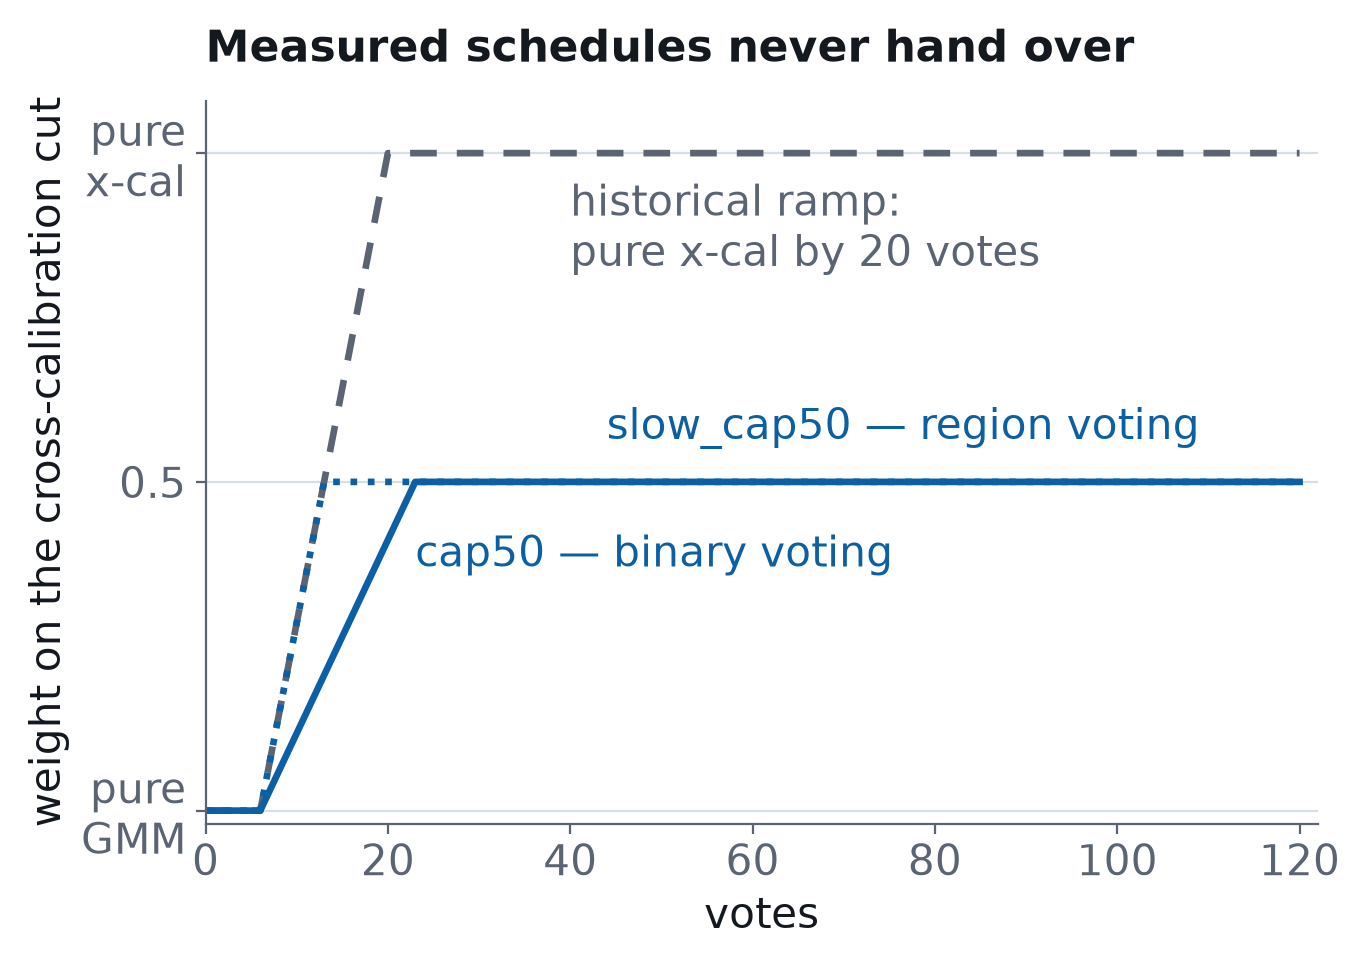
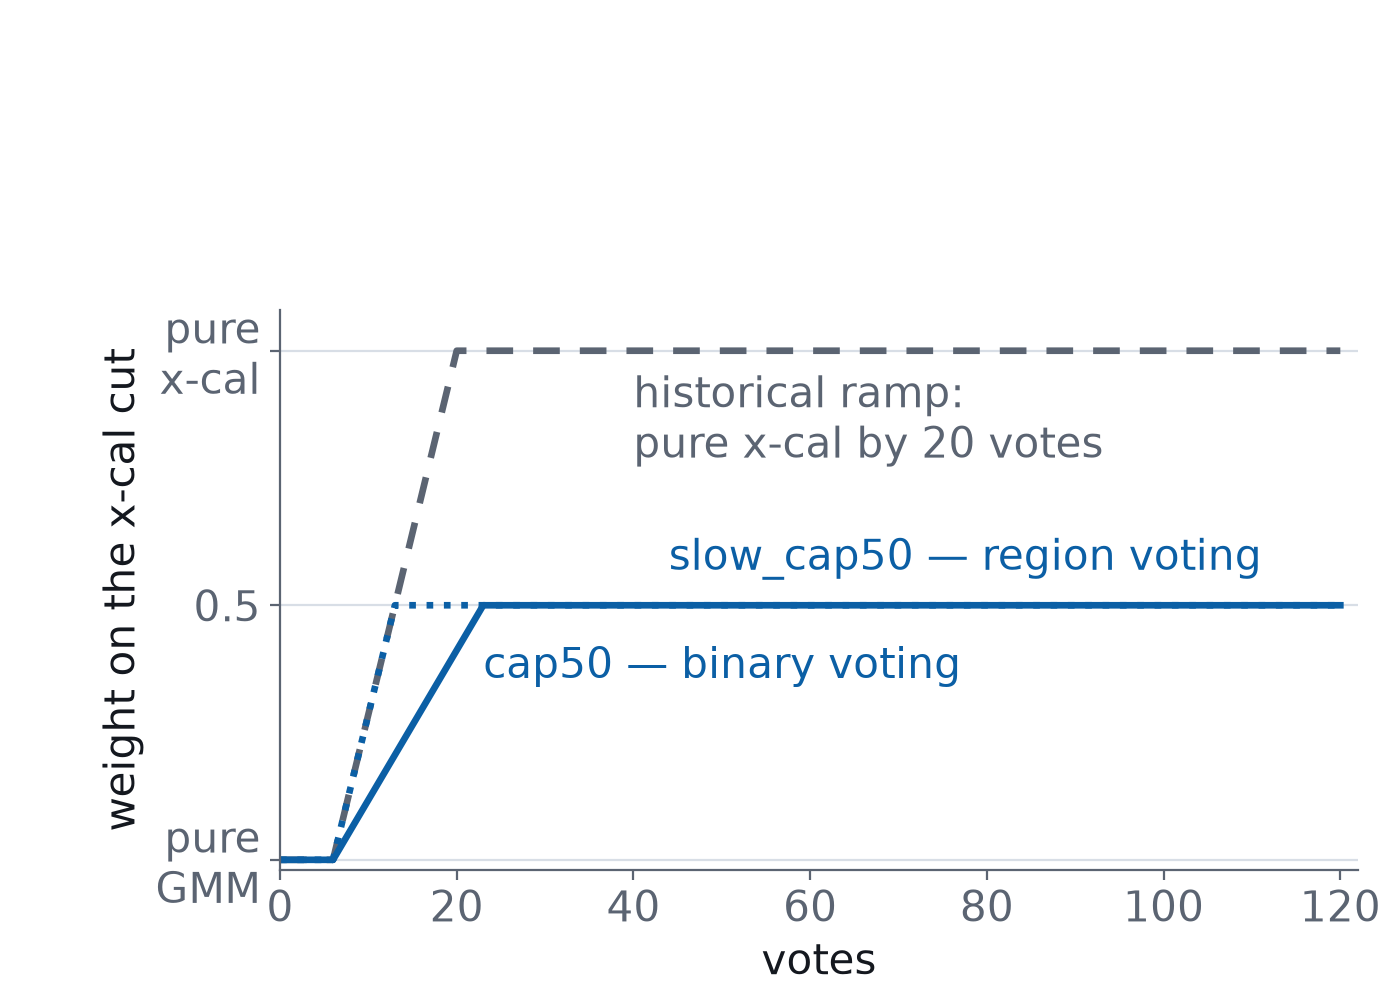
slides: prototype full-bleed figures with a fixed top-left title notch
Three slides converted as a prototype: xcal (a zero-bullet mechanism build),
blend-schedule and evt-close (a figure plus three bullets each, now title-only).

The measured finding behind the shape: every sidebar figure was already
height-bound in its slot, so the text column beside it was costing the figure
nothing — deleting it buys area only where the figure is wide enough to spend
the width. That rules out a title band across the top, which spends the one
resource that is actually scarce.

- slide_figure.TITLE_NOTCH_PX: the reserved top-left rectangle, in slide px,
  with notch_box() to express it in figure fractions and enforce_title_notch()
  to refuse a full-bleed figure that draws inside it. save() runs the check
  automatically at FULL_BLEED; notch=False opts a titleless slide out.
- themes: section.full anchors kicker and headline in that corner instead of
  banding the headline across the top behind a white wash.
- The two plot figures drop their in-figure titles, which duplicated the slide
  headline, and reserve the notch instead of tight-cropping to their own ink.

Claude-Session: https://claude.ai/code/session_01F4ofWoG9nK8CwuVBiUfaQr

diff --git a/slides/themes/vtsearch.css b/slides/themes/vtsearch.css
@@ -201,17 +201,26 @@ section.outline ol li::before {
 section.outline ol li.here { font-weight: 700; }
 section.outline ol li em { color: var(--ink-soft); font-style: normal; }
 
-/* Full-bleed figure: kill the padding so a background image owns the slide. */
-section.full { padding: 0; }
-section.full h2 {
-  position: absolute;
-  top: 42px;
-  left: 60px;
-  right: 60px;
-  background: rgba(255, 255, 255, 0.92);
-  padding: 0.25em 0.5em;
-  border-radius: 6px;
+/* Full-bleed figure: the figure owns the whole 1280x720 slide, and the title
+   sits in a notch cut out of its top-left corner.
+
+   The notch is a fixed standard, not a per-slide choice, and that is the whole
+   point of it: a headline that moves to dodge each figure stops being a
+   headline and becomes another thing to find. A figure that genuinely cannot
+   spare its top-left corner therefore carries NO title — it does not put one
+   somewhere else. The same rectangle lives in Python as
+   `slide_figure.TITLE_NOTCH_PX`, where `save()` refuses to write a full-bleed
+   figure that draws inside it; keep the two in sync.
+
+   The background image is a Marpit layer behind the section, so the padding
+   here insets only the title — the figure still bleeds to all four edges. */
+section.full {
+  padding: 42px 60px;
+  align-content: start;
 }
+section.full h2,
+section.full h3 { max-width: 600px; }
+section.full h2 { margin: 0; }
 
 /* Build groups (progressive reveal): build.py injects this class on every
    page of the group, the final page included. Anchoring the column to the

diff --git a/slides/figs/src/slide_figure.py b/slides/figs/src/slide_figure.py
@@ -22,14 +22,24 @@ by looking at the PNG on its own.
 A third rule applies to schematics rather than plots, and is about *spacing*
 rather than size: `LABEL_GAP_PT` and `OBJECT_GAP_PT` below. See
 `slides/STYLE.md` for what they mean and why the ratio between them matters.
+
+A fourth applies only to full-bleed slides, and is about *where the title
+goes*: `TITLE_NOTCH_PX`. A figure that owns the whole 1280x720 slide has to
+leave its top-left corner empty for the slide's own kicker and headline. That
+rectangle is a fixed standard rather than a per-slide choice, because a title
+that moves is worse than no title at all — a figure that cannot spare its
+top-left corner carries no title, it does not put one somewhere else.
 """
 
 from __future__ import annotations
 
+import math
 from pathlib import Path
 
 import matplotlib
 import matplotlib.pyplot as plt
+import numpy as np
+from PIL import Image
 
 #: Marp renders these decks at 1280x720.
 SLIDE_PX = 1280
@@ -56,6 +66,20 @@ TYPE_FLOOR_PX = 20.0
 LABEL_GAP_PT = 6.0
 OBJECT_GAP_PT = 16.0
 
+#: The title notch, in slide pixels from the top-left of a 1280x720 slide:
+#: `(x, y, width, height)`. A `_class: full` slide draws its kicker and
+#: headline here and nowhere else, so a full-bleed figure must keep its ink
+#: out of it. Sized to hold a 22px kicker over two lines of 34px headline —
+#: which is every headline in the deck — plus the theme's 60x42 inset.
+#: Two lines of headline at 600px is ~68 characters, so no full-bleed slide in
+#: the library has to be re-worded to fit.
+#:
+#: This is a *standard*, and the point of it is that it does not move. See
+#: `section.full` in `slides/themes/vtsearch.css`, which is the same rectangle
+#: expressed in CSS, and `notch_box()` below, which is it in figure
+#: coordinates so a generator can lay out around it.
+TITLE_NOTCH_PX = (60.0, 42.0, 600.0, 170.0)
+
 INK = "#14181f"
 SOFT = "#5b6472"
 
@@ -65,6 +89,82 @@ def rendered_px_per_pt(fig: plt.Figure, column: float) -> float:
     box_width, box_height = SLIDE_PX * column, SLIDE_PX * 9 / 16
     width_pt, height_pt = fig.get_size_inches() * 72
     return min(box_width / width_pt, box_height / height_pt)
+
+
+def _slot_placement(width: float, height: float, column: float) -> tuple[float, float, float, float]:
+    """Where a `width` x `height` drawing lands inside its slide slot.
+
+    Returns `(offset_x, offset_y, drawn_w, drawn_h)` in slide pixels. Marp's
+    `fit` scales the image to touch the slot on its binding axis and centres it
+    on the other, so a drawing whose aspect differs from the slot's is
+    letterboxed — and the empty bands that leaves are why a tall figure often
+    owes the title notch nothing at all.
+    """
+    box_w, box_h = SLIDE_PX * column, SLIDE_PX * 9 / 16
+    scale = min(box_w / width, box_h / height)
+    drawn_w, drawn_h = scale * width, scale * height
+    return (box_w - drawn_w) / 2, (box_h - drawn_h) / 2, drawn_w, drawn_h
+
+
+def notch_box(width: float, height: float, column: float = FULL_BLEED) -> tuple[float, float, float, float] | None:
+    """`TITLE_NOTCH_PX` as a fraction of a `width` x `height` drawing, or None.
+
+    The result is `(x0, y0, x1, y1)` in matplotlib's figure-fraction
+    convention (origin bottom-left), ready to hand to `transFigure`, so a
+    generator can lay out around the notch rather than guess at it.
+
+    `None` means the notch falls entirely in the letterbox margin beside the
+    drawing — the corner the title wants is empty *slide*, not empty *figure*,
+    and the generator has nothing to do. That is the common case for the
+    tall flow figures, and it is why going full-bleed costs them no redraw.
+
+    Only meaningful for `FULL_BLEED`: the notch is a full-bleed standard, and
+    a split-background slot is not anchored at the slide's left edge anyway.
+    """
+    offset_x, offset_y, drawn_w, drawn_h = _slot_placement(width, height, column)
+    notch_x, notch_y, notch_w, notch_h = TITLE_NOTCH_PX
+    left = (notch_x - offset_x) / drawn_w
+    right = (notch_x + notch_w - offset_x) / drawn_w
+    # Notch y runs down from the slide's top; figure fractions run up.
+    top = (notch_y - offset_y) / drawn_h
+    bottom = (notch_y + notch_h - offset_y) / drawn_h
+
+    x0, x1 = max(0.0, left), min(1.0, right)
+    y0, y1 = max(0.0, 1.0 - bottom), min(1.0, 1.0 - top)
+    if x0 >= x1 or y0 >= y1:
+        return None
+    return x0, y0, x1, y1
+
+
+def enforce_title_notch(path: Path, column: float = FULL_BLEED) -> None:
+    """Raise if the written figure puts ink where the slide's title goes.
+
+    Checked against the *file* rather than the live figure because `save`
+    crops, so the drawing that reaches the slide is not the one the canvas
+    holds. Background is read from the image's own top-left pixel, which the
+    tight crop's padding guarantees is blank.
+    """
+    with Image.open(path) as image:
+        pixels = np.asarray(image.convert("RGBA"))
+    height, width = pixels.shape[:2]
+    box = notch_box(width, height, column)
+    if box is None:
+        return
+    x0, y0, x1, y1 = box
+    top, bottom = int((1.0 - y1) * height), math.ceil((1.0 - y0) * height)
+    left, right = int(x0 * width), math.ceil(x1 * width)
+    region = pixels[top:bottom, left:right]
+    background = pixels[0, 0]
+    # Transparent counts as blank whatever its colour channels happen to hold.
+    ink = (region[..., 3] > 8) & (np.abs(region.astype(int) - background.astype(int))[..., :3] > 8).any(-1)
+    if ink.any():
+        covered = 100.0 * ink.mean()
+        raise SystemExit(
+            f"title notch: {path.name} draws in the top-left corner the slide reserves for its "
+            f"headline ({covered:.1f}% of the notch has ink). Move that ink out of the notch — "
+            f"`slide_figure.notch_box()` gives the rectangle in figure fractions — or drop the "
+            f"slide's title, which is the other honest answer. Do not move the title."
+        )
 
 
 def enforce_type_floor(fig: plt.Figure, column: float = SIDEBAR) -> None:
@@ -108,6 +208,7 @@ def save(
     *,
     tight: bool = True,
     box: matplotlib.transforms.Bbox | None = None,
+    notch: bool = True,
 ) -> None:
     """Write `fig`, refusing it if any label would miss the type floor.
 
@@ -119,6 +220,13 @@ def save(
     `box` crops to an explicit box (inches) instead — pass `tight_box(final)`
     when saving the stages of a build figure, so every stage shares the final
     stage's framing.
+
+    A `FULL_BLEED` figure is additionally checked against `TITLE_NOTCH_PX`,
+    the top-left corner its slide reserves for kicker and headline. Pass
+    `notch=False` for a full-bleed slide that carries no title — a legitimate
+    choice, and the only one available to a figure that needs its own corner.
+    The check is a no-op at any other `column`, where the title sits beside
+    the figure rather than over it.
     """
     enforce_type_floor(fig, column)
     if box is not None:
@@ -128,4 +236,6 @@ def save(
     else:
         fig.savefig(out / name)
     plt.close(fig)
+    if notch and column == FULL_BLEED:
+        enforce_title_notch(out / name, column)
     print(f"wrote figs/{name}")

diff --git a/slides/figs/src/make-calib-figs.py b/slides/figs/src/make-calib-figs.py
@@ -36,7 +36,15 @@ from matplotlib import patheffects
 from matplotlib.patches import Ellipse, FancyArrow, FancyArrowPatch, Polygon, Rectangle
 
 sys.path.insert(0, str(Path(__file__).resolve().parent))
-from slide_figure import LABEL_GAP_PT, OBJECT_GAP_PT, SIDEBAR, SIDEBAR_WIDE, save, tight_box  # noqa: E402
+from slide_figure import (  # noqa: E402
+    FULL_BLEED,
+    LABEL_GAP_PT,
+    OBJECT_GAP_PT,
+    SIDEBAR,
+    SIDEBAR_WIDE,
+    save,
+    tight_box,
+)
 
 from vtscore.training.blend_schedules import BlendContext, get_schedule
 from vtscore.training.thresholds import (
@@ -3307,12 +3315,17 @@ def blend_schedule_fig() -> None:
     ax.set_ylim(-0.02, 1.08)
     ax.set_yticks([0, 0.5, 1.0], ["pure\nGMM", "0.5", "pure\nx-cal"])
     ax.set_xlabel("votes")
-    ax.set_ylabel("weight on the cross-calibration cut")
-    ax.set_title("Measured schedules never hand over", loc="left", pad=14, fontsize=16)
+    # Short enough not to overflow the (shortened) axes above the title notch;
+    # the tick labels already read "pure GMM" to "pure x-cal", so the axis name
+    # only has to name the quantity, not re-explain the ends.
+    ax.set_ylabel("weight on the x-cal cut")
     ax.grid(axis="y", color=RULE, linewidth=0.8)
     ax.set_axisbelow(True)
-    fig.tight_layout()
-    save(fig, OUT, "calib-blend-schedule.png")
+    # Full-bleed: no in-figure title (the slide's headline is the title, and it
+    # is drawn over this band), and the plot is pushed below TITLE_NOTCH_PX
+    # rather than tight-cropped, so the reserved corner survives the write.
+    fig.subplots_adjust(left=0.20, right=0.97, top=0.69, bottom=0.13)
+    save(fig, OUT, "calib-blend-schedule.png", column=FULL_BLEED, tight=False)
 
 
 def anchored_fig() -> None:
@@ -3424,7 +3437,9 @@ def decomposition_fig() -> None:
     ax.spines["left"].set_visible(False)
     ax.spines["bottom"].set_visible(False)
     ax.tick_params(left=False)
-    ax.set_title("Where the threshold error lives", loc="left", pad=34, fontsize=16)
+    # Full-bleed: the in-figure title is gone (the slide's headline says the
+    # same thing, over this band), but the units line stays — it is the one
+    # thing the bars do not say for themselves.
     ax.annotate(
         "excess cost vs the test oracle, region arm",
         xy=(0, 1.0),
@@ -3434,8 +3449,8 @@ def decomposition_fig() -> None:
         fontsize=15,
         color=SOFT,
     )
-    fig.tight_layout()
-    save(fig, OUT, "calib-error-decomposition.png")
+    fig.subplots_adjust(left=0.28, right=0.97, top=0.645, bottom=0.05)
+    save(fig, OUT, "calib-error-decomposition.png", column=FULL_BLEED, tight=False)
 
 
 #: The loop schematic's canvas. Wider than the calibration schematics because

diff --git a/slides/fragments/blend-schedule.md b/slides/fragments/blend-schedule.md
@@ -1,14 +1,17 @@
-![bg right:56% fit](figs/calib-blend-schedule.png)
+<!-- _class: full -->
+
+![bg fit](figs/calib-blend-schedule.png)
 
 ### Iteration 3½ — measured again
 
 ## Never hand over completely
 
-- Nine schedules swept: the 20-vote handoff was too fast
-- Winners cap x-cal at **half weight, forever**: region −0.058, binary −0.019
-- 300 clicks ≈ **13 positives** — x-cal converges in positives, not clicks
+<!-- Say the three numbers; they are no longer on the slide. Nine schedules
+     swept, and the 20-vote handoff was too fast. The winners cap x-cal at half
+     weight forever: region −0.058, binary −0.019. And 300 clicks buys about 13
+     positives, because x-cal converges in positives, not clicks.
 
-<!-- Iteration 3½ went back and swept the three choices that had been baked
+     Iteration 3½ went back and swept the three choices that had been baked
      into that one hard-coded line: nine schedules, re-run at ten times the
      original horizon to make sure the answer was a finding and not an
      artefact of stopping early.

diff --git a/slides/fragments/evt-close.md b/slides/fragments/evt-close.md
@@ -1,14 +1,17 @@
-![bg right:56% fit](figs/calib-error-decomposition.png)
+<!-- _class: full -->
+
+![bg fit](figs/calib-error-decomposition.png)
 
 ### Epilogue — why it closed
 
 ## The anchored fit ate the cut axis
 
-- The tail rule at its own best tuning: **+0.0069**, worse at p = 0.001
-- The label-reading oracle of **every** cut rule: −0.0055, not significant
-- What is left is **transfer**, and no cut rule can touch it
+<!-- Say the three numbers; they are no longer on the slide. The tail rule at
+     its own best tuning is +0.0069, worse at p = 0.001. The label-reading
+     oracle of every cut rule is −0.0055, not significant. What is left is
+     transfer, and no cut rule can touch it.
 
-<!-- The answer, from the re-measurement: judged against the anchored fit that
+     The answer, from the re-measurement: judged against the anchored fit that
      had shipped in the meantime, the extreme-value rule is worse — by 0.0069
      even at its own best tuning, significant at p = 0.001. That alone would
      just close one idea.

diff --git a/slides/fragments/xcal.md b/slides/fragments/xcal.md
@@ -1,4 +1,6 @@
-![bg right:70% fit](figs/calib-xcal-flow.png)
+<!-- _class: full -->
+
+![bg fit](figs/calib-xcal-flow.png)
 
 ### Iteration 1 — the idea
 
